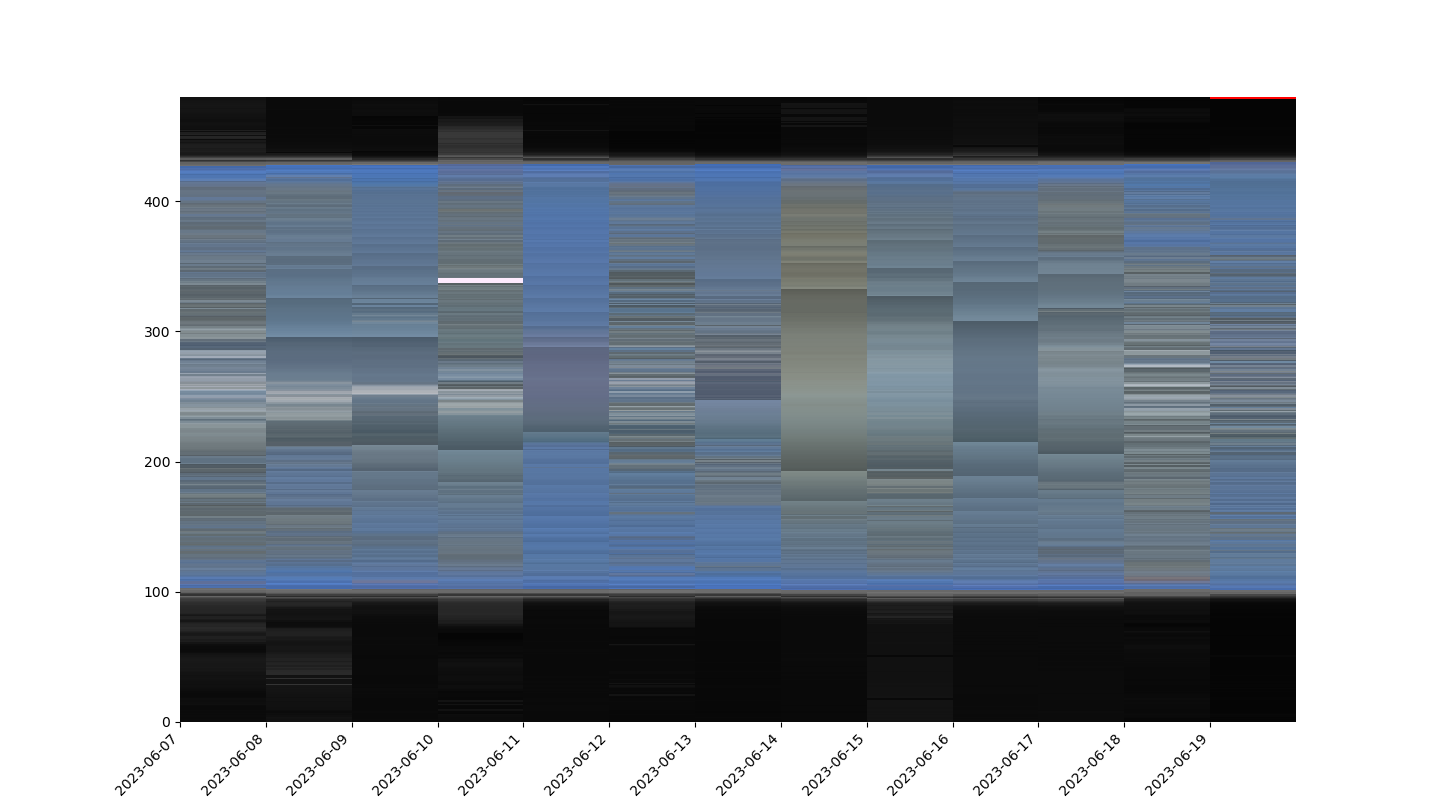
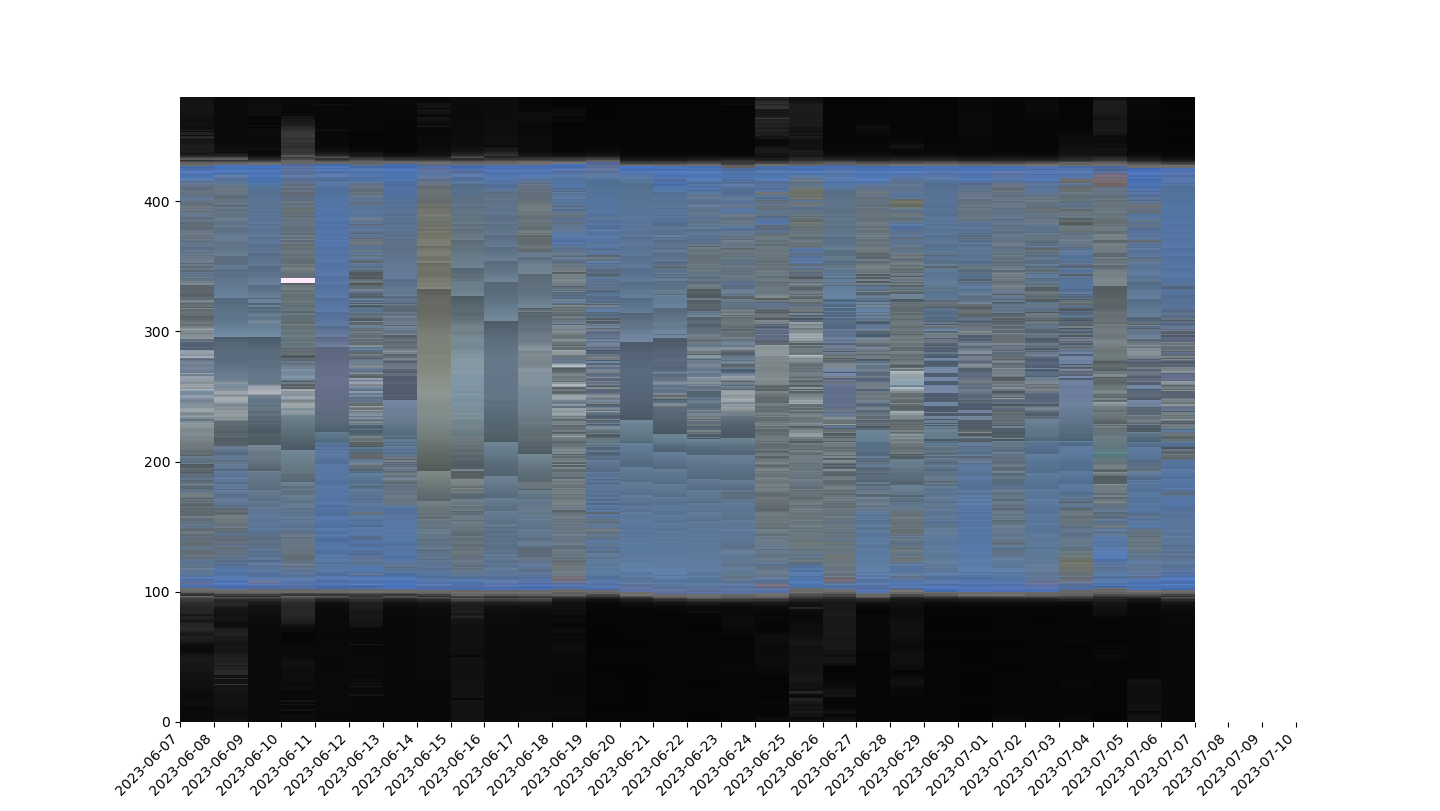
Wrote update for README file

diff --git a/README.md b/README.md
@@ -1,4 +1,23 @@
-# Monarch
-Project Monarch work.
+# Monarch Solar Radiation
+~ an on-going research project~
+
+---
+**Last updated:** 2023-10-05 14:30:00
+
+![Sky BGR signature](skysignature.png)
+*Figure 1: Sky BRG Signature between the 7 to 30 of June*
+Interesting finding: between the 14 and 16 of June, I checked with the past weather and they reported those days to have a lot of smoke in the air
+
+![Sensors data](hour9tohour17.png)
+*Figure 2: Sensors data v Pyro between the hour 6 to hour 17*
+Converted UTC to Central Time and only select data between 6 AM and 5 PM
+Data is filtered to remove error data which usually occur by hardware or during night time. Still need to check on why short wavelength of IR caused the staircase patterns.
+
+![Blue Value vs Pyros](blue_v_pyro_hour6_to_hour17.png)
+*Figure 3: Blue value vs Pyro between the 7 to 30*
+I averaged the Pyro data and the Blue value data with mean of interval of 15 mins (only able to look into the data between the 7 of June to 30 of June, my computer is still processing for the month of July)
+
+
+---
 
 Using Arduino IDE version 1.8.9 and libraries found here: https://github.com/NorthernWidget/NorthernWidget-libraries
